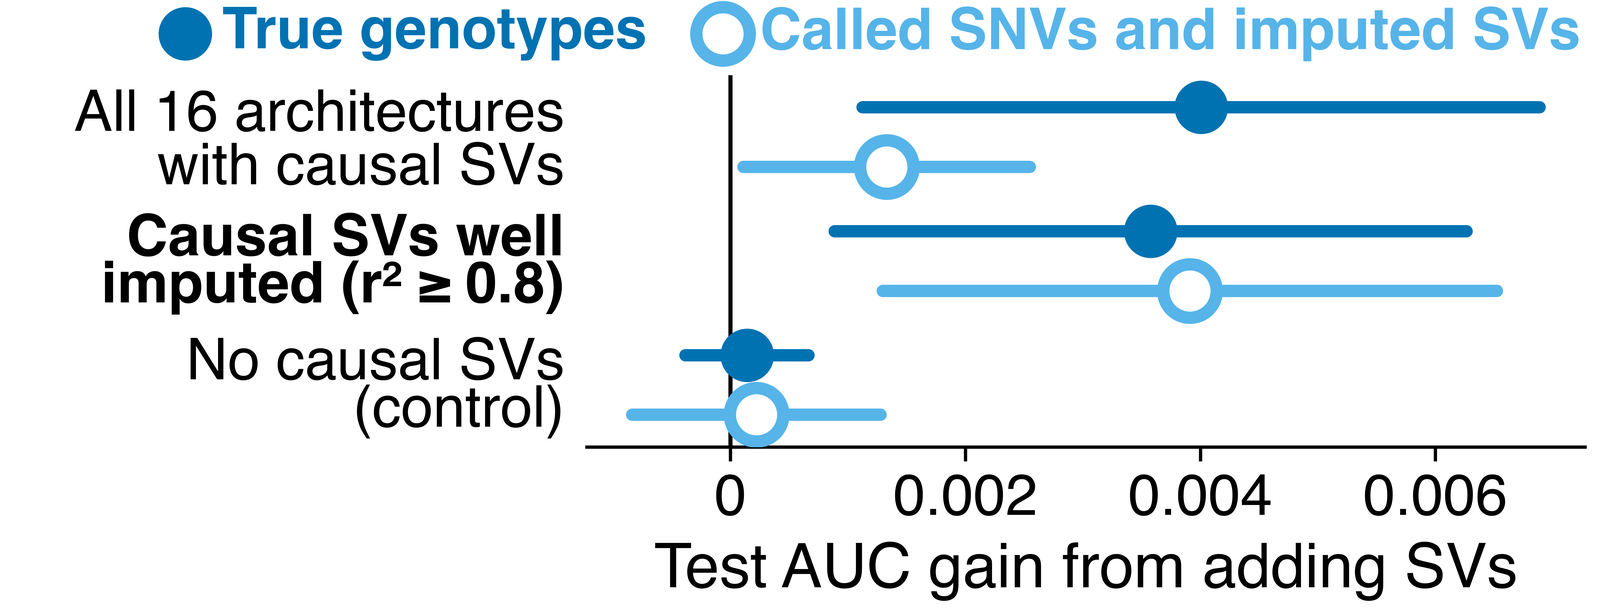
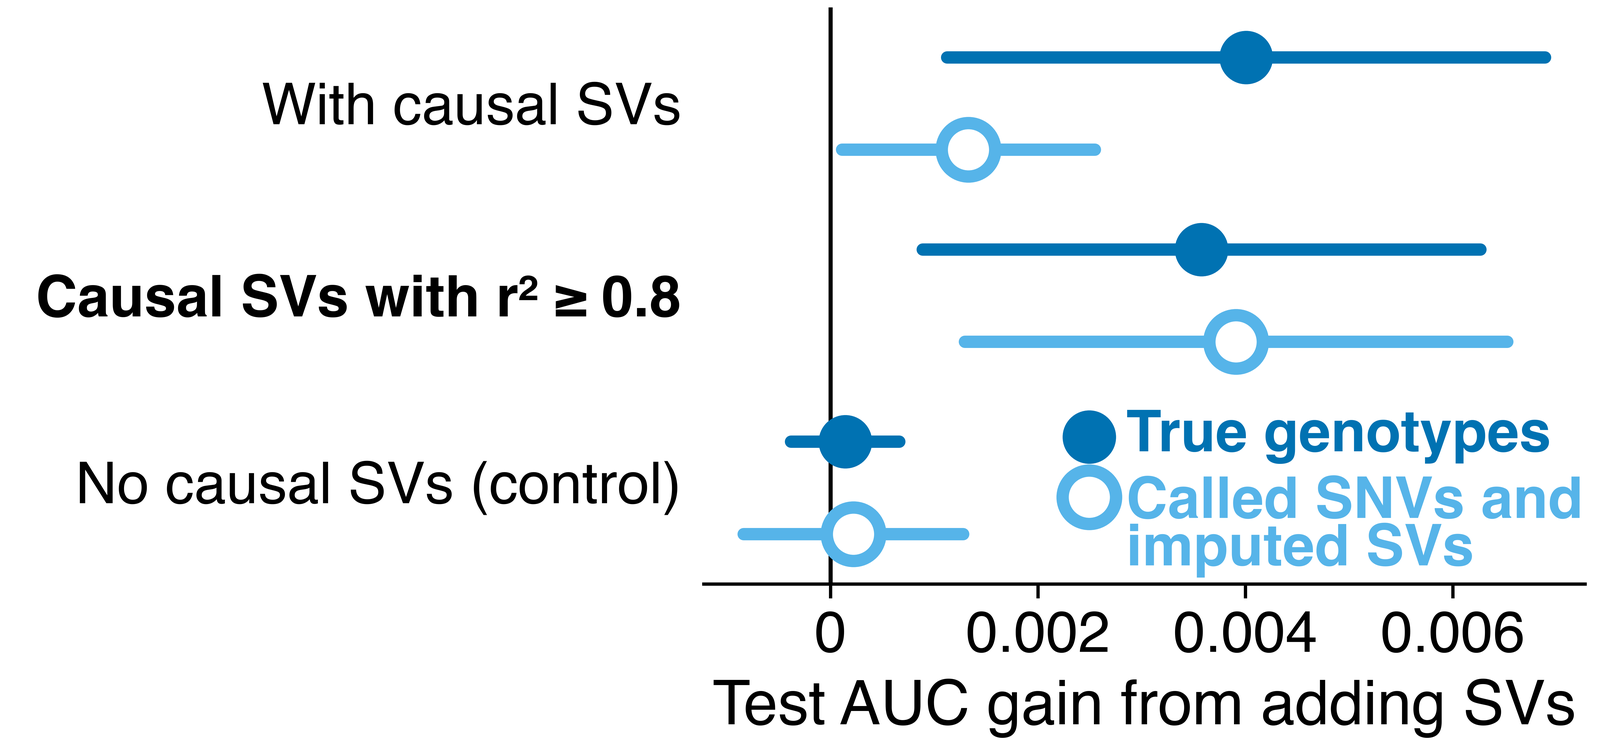
The poster has about a third fewer words, ends each column flush, and names the program *All of Us* in italics (docs/poster/ashg2026). The right section is "All of Us cohort results" and the middle "Simulation results". The simulation design merges into Methods as three bullets: the 50,000 genomes, 
Claude-Session: https://claude.ai/code/session_01XTX1JUgLVteQ3pwSnr9aa6

diff --git a/docs/poster/ashg2026/build_pptx.py b/docs/poster/ashg2026/build_pptx.py
@@ -60,7 +60,7 @@ COLUMNS = ((MARGIN, LEFT), (MARGIN + LEFT + GUTTER, MIDDLE), (48 - MARGIN - RIGH
 """Each column's left edge and width."""
 INSET = 0.3
 """Text sits this far inside its column, under the section bars' labels."""
-BAR, BAR_SIZE = 1.25, 72
+BAR, BAR_SIZE = 1.25, 68
 BODY, HEADLINE, GLOSS, REFERENCE, PENDING = 56, 60, 56, 28, 50
 LINE_PITCH = 1.066
 """Line pitch per point of type at 90% line spacing, measured on the LibreOffice render."""
@@ -92,10 +92,11 @@ REFERENCES = [
 """First author, year and journal, one to a line, numbered in superscript in the order the text first cites them
 (``cite``): the SVs per genome, LDpred2, All of Us and GLIMPSE2."""
 SUPERSCRIPT = dict(zip(range(1, 10), "¹²³⁴⁵⁶⁷⁸⁹"))
-DESIGN_SETTINGS = {"h2": (0.01, 0.1), "prevalence": (0.01, 0.1), "causal_variants": (50, 200, 2000),
-                   "sv_causal_fraction": (0.0, 0.05, 0.2)}
-"""The values each setting takes over benchmarks/power/grid.py's POINTS (a point's own value, else HERITABILITY,
-PREVALENCE or CAUSAL_VARIANTS), which tests/test_poster_simulation.py checks against the grid."""
+DESIGN_BASE = {"h2": 0.1, "prevalence": 0.1, "causal_variants": 200, "sv_causal_fraction": 0.2}
+"""The base disease of benchmarks/power/grid.py, from which each of its POINTS changes one or two settings: its
+HERITABILITY, PREVALENCE and CAUSAL_VARIANTS, and the SV share most points have."""
+DESIGN_SHARES = (0.0, 0.05)
+"""The other SV shares the grid's points take. tests/test_poster_simulation.py checks both against the grid."""
 
 
 WHOLE_PREVALENCE = 0.1
@@ -118,9 +119,9 @@ PLACEHOLDERS = [
 
 def marked(text: str) -> list[tuple[str, str]]:
     """Runs of ``text``: **bold**, {{words|colour}} bold in a figure colour (a genotype source named as its bars are
-    drawn), and each method's name bold in its figure colour."""
+    drawn), each method's name, and the program's name *All of Us* in italics, as its style asks."""
     runs = []
-    for piece in re.split(r"(\*\*.+?\*\*|\{\{.+?\}\}|SV-PGS|LDpred2-auto)", text):
+    for piece in re.split(r"(\*\*.+?\*\*|\{\{.+?\}\}|SV-PGS|LDpred2-auto|All of Us)", text):
         if piece.startswith("**"):
             runs.append((piece[2:-2], "b"))
         elif piece.startswith("{{"):
@@ -128,6 +129,8 @@ def marked(text: str) -> list[tuple[str, str]]:
             runs.append((words, f"b {colour}"))
         elif piece in ("SV-PGS", "LDpred2-auto"):
             runs.append((piece, ""))
+        elif piece == "All of Us":
+            runs.append((piece, "i"))
         elif piece:
             runs.append((piece, ""))
     return runs
@@ -144,18 +147,18 @@ def copy(numbers: dict) -> dict:
     simulations = rows["all"]["true"][3] + rows["null"]["true"][3]
     return {
         # Byrska-Bishop 2022: "On average, ~9,679 SVs were discovered in each genome"
-        "introduction": [f"Each genome has ~9,700 structural variants (SVs){cite('Byrska-Bishop 2022 Cell')}",
-                         "Polygenic scores rarely use SVs",
-                         "We test if imputed SVs improve accuracy"],
-        "methods": ["Priors depend on imputation r², frequency, SV length"],
+        "introduction": [f"Each genome has ~9,700 structural variants (SVs).{cite('Byrska-Bishop 2022 Cell')}",
+                         "Polygenic scores rarely use SVs, so we test if imputed SVs improve accuracy."],
+        "methods": ["Priors use SV type, length, frequency and imputation r²."],
         "code": ["Code:", "github.com/SauersML/SV-PGS"],
         "design": [
-            f"{people(svs['people'])} genomes simulated from 1000 Genomes chr22",
-            # each setting's values over the grid's points (DESIGN_SETTINGS), listed rather than as a range
-            f"{gain['shown']} architectures: h² {listed([f'{h2:g}' for h2 in DESIGN_SETTINGS['h2']])}, prevalence "
-            f"{listed([f'{share:.0%}' for share in DESIGN_SETTINGS['prevalence']])}",
-            f"{listed([f'{count:,}' for count in DESIGN_SETTINGS['causal_variants']])} causal variants, of which "
-            f"{listed([f'{share:.0%}' for share in DESIGN_SETTINGS['sv_causal_fraction']])} are SVs",
+            f"{people(svs['people'])} genomes simulated from 1000 Genomes chr22.",
+            f"Base disease: h² {DESIGN_BASE['h2']:g}, prevalence {DESIGN_BASE['prevalence']:.0%}, "
+            f"{DESIGN_BASE['causal_variants']:,} causal variants, {DESIGN_BASE['sv_causal_fraction']:.0%} of them SVs.",
+            # the other points: SV effect size or shape (fold 3, length, deletion, heavy tail, two point), 50 or
+            # 2,000 causal variants, h² 0.01, prevalence 1%, and causal SVs only well imputed or common
+            f"Others change the SV share ({listed([f'{share:.0%}' for share in DESIGN_SHARES])}), SV effects, causal "
+            "count, h², prevalence or which SVs are causal.",
         ],
         # what each plotted method fits, over the simulation's figures: SV-PGS every measured record with no
         # frequency or r² floor (stage2_wiring.fit_models), LDpred2-auto SNVs of training MAF >= 1% thinned evenly in
@@ -163,34 +166,22 @@ def copy(numbers: dict) -> dict:
         "compared": ["SV-PGS: all SNVs, indels and SVs",
                      f"LDpred2-auto{cite('Privé 2020 Bioinformatics')}: up to 16,000 SNVs with MAF ≥ 1%"],
         # every whole-chr22 architecture has the grid's PREVALENCE: rare_disease, at 1%, ran in the 3 Mb window alone
-        "whole_note": f"Whole chr22 at {WHOLE_PREVALENCE:.0%} prevalence with test N = {people(accuracy['test_people'])}",
-        "gain_note": f"Mean and 95% CI over {simulations} simulations in 3 Mb of chr22",
+        "whole_note": f"Whole chr22 at {WHOLE_PREVALENCE:.0%} prevalence, test N = {people(accuracy['test_people'])}",
+        "gain_note": f"{simulations} simulations in 3 Mb of chr22 (mean, 95% CI)",
         # GLIMPSE2 is Rubinacci 2023; the assemblies are the accepted abstract's 12,212 phased genome assemblies
+        # the forest's matched fits: SV-PGS with and without SVs on every trait, tested in its held-out people
         "aou": ["We imputed SVs from 12,212 long-read assemblies into 100,000 All of Us"
-                f"{cite('All of Us 2019 N Engl J Med')} genomes with GLIMPSE2{cite('Rubinacci 2023 Nat Genet')}",
-                *aou_matched()],
+                f"{cite('All of Us 2019 N Engl J Med')} genomes with GLIMPSE2.{cite('Rubinacci 2023 Nat Genet')}",
+                "We compare held-out r² with and without SVs."],
         # what the simulations mean. SV-PGS's AUC gain over LDpred2-auto at training N 40,000 holds without causal
         # SVs (wins' null_gain, its 95% interval above 0), so causal SVs are not its source. Imputed SVs' gain is
         # largest where the causal SVs are well imputed, where it matches the gain with true SV genotypes (the SV-gain
         # forest's well_imputed and all rows: imputed share of the true gain about 1 against about a third)
         "discussion": [
-            "SV-PGS beat LDpred2-auto with and without causal SVs, so its advantage comes from the model and its "
-            "larger variant set",
-            "Imputed SVs helped most when the causal SVs were well imputed, so the gain depends on SV imputation "
-            "accuracy",
+            "SV-PGS beat LDpred2-auto with and without causal SVs, so its advantage comes from the model and variant set.",
+            "Imputed SVs helped most when causal SVs were well imputed, so the gain depends on imputation accuracy.",
         ],
     }
-
-
-def aou_matched() -> list[str]:
-    """What the All of Us figure compares, when aou_numbers.json holds its "matched" rows (aggregates, every count
-    below 40 masked): for each trait, SV-PGS fitted with SVs and without them, tested in the same held-out people."""
-    path = HERE / "aou_numbers.json"
-    rows = json.loads(path.read_text()).get("matched", {}).get("rows", []) if path.is_file() else []
-    # every matched run's run_config.json: fit_minimum_minor_allele_frequency 0.01, fit_minimum_r2 0.3 and
-    # fit_variant_sites HapMap3, which keeps the SNVs at HapMap3 sites and every SV (workspace_pipeline.fit_filtered)
-    return ["We fit SV-PGS with and without SVs and tested both in held-out people",
-            "HapMap3 SNVs and SVs, MAF ≥ 1%, imputation r² ≥ 0.3"] if rows else []
 
 
 def signed(share: float) -> str:
@@ -206,8 +197,8 @@ def aou_result() -> list[str]:
     common = json.loads(path.read_text()).get("matched", {}).get("common") if path.is_file() else None
     if not common:
         return []
-    return [f"In All of Us, imputed SVs raised r² by at most {signed(common['relative_bound'] / 100)} across "
-            f"{common['traits']} traits, so these traits have few SVs with large effects or poorly imputed causal SVs"]
+    return [f"In All of Us, imputed SVs raised r² by at most {signed(common['relative_bound'] / 100)} over "
+            f"{common['traits']} traits, so these traits have few SVs with large effects or poorly imputed causal SVs."]
 
 
 # ------------------------------------------------------------------ DrawingML
@@ -328,7 +319,8 @@ def image(shape_id: int, name: str, rel: str, x: float, y: float, width: float, 
 def placeholder(shape_id: int, x: float, y: float, width: float, height: float, title: str, detail: str) -> str:
     """A dashed panel where an All of Us figure will go."""
     text = "".join(
-        Para([(words, flags)], size, bullet=False, colour=colour, after=after, align="ctr").xml()
+        Para([(piece, f"{flags} {style}") for piece, style in marked(words)], size, bullet=False, colour=colour,
+             after=after, align="ctr").xml()
         for words, flags, size, colour, after in (("All of Us · result pending", "b", PENDING, TEAL, 18),
                                                   (title, "b", HEADLINE, INK, 12), (detail, "", GLOSS, GREY, 0))
     )
@@ -405,12 +397,13 @@ def authors_and_affiliations() -> tuple[list[tuple[str, str]], list[str]]:
 
 def header(xml: str) -> str:
     """The abstract's title (two lines, as the template sets it), then its authors and affiliations."""
-    title = "".join(Para([(text, "b")], 92, bullet=False, colour="FFFFFF", after=0).xml() for text in TITLE)
+    title = "".join(Para([(piece, f"b {flags}") for piece, flags in marked(text)], 92, bullet=False, colour="FFFFFF",
+                         after=0).xml() for text in TITLE)
     xml = replace_text(xml, 89, title.replace('<a:spcPct val="90000"/>', '<a:spcPct val="100000"/>'))
     authors, affiliations = authors_and_affiliations()
     author_runs: list[tuple[str, str]] = []
     for position, (name, marks) in enumerate(authors):
-        author_runs.append((name, ""))
+        author_runs.extend(marked(name))
         if marks:
             author_runs.append((marks.replace(" ", ""), "sup"))
         if position < len(authors) - 1:
@@ -456,16 +449,21 @@ def text(paragraphs: list[Para]) -> Block:
 
 QR = 2.6
 """Inches: the side of the QR code to the repository."""
-ENDING = 6.3
-"""Inches: the width of the QR code and the small type under it at the right end of the Discussion band, the least that
-sets the repository's address on one line."""
+ENDINGS = (6.3, 10.0)
+"""Inches: the widths of the QR code and its small type at the right end of the Discussion band, the type under the
+code or beside it, each the least that sets the repository's address on one line."""
 
 
-def code(lines: list[str]) -> list[Block]:
-    """A QR code to the repository over ``lines`` in small type: "Code:", the address in bold, then the references."""
-    return [Block("qr", None),
-            Block("text", [Para([(line, "b" if index == 1 else "")], REFERENCE, bullet=False, after=0)
-                           for index, line in enumerate(lines)])]
+def code(lines: list[str], beside: bool) -> list[Block]:
+    """A QR code to the repository with ``lines`` in small type under it, or ``beside`` it: "Code:", the address in
+    bold, then "References:" and the references."""
+    blocks = [Block("qr", None),
+              Block("text", [Para([(piece, f"b {flags}" if index == 1 else flags) for piece, flags in marked(line)],
+                                  REFERENCE, bullet=False, after=0) for index, line in enumerate(lines)])]
+    if not beside:
+        return blocks
+    share = QR / (ENDINGS[1] - GUTTER)
+    return [row([blocks[0]], [blocks[1]], shares=(share, 1 - share))]
 
 
 def row(*children: list, shares: tuple = ()) -> Block:
@@ -555,9 +553,14 @@ class Poster:
             shape_id, label = block.content
             self.xml = move(self.xml, shape_id, x, y, width, BAR)
             start, end = shape_span(self.xml, shape_id)
-            shape = re.sub(r"<a:t>[^<]*</a:t>", f"<a:t>{escape(label, quote=False)}</a:t>", self.xml[start:end], count=1)
-            shape = re.sub(r'sz="\d+"', f'sz="{BAR_SIZE * 100}"', shape)
-            shape = re.sub(r'(<a:rPr lang="en-US" sz="\d+") b="0"', r'\1 b="1"', shape)
+            shape = self.xml[start:end]
+            first = re.search(r"<a:r>.*?</a:r>", shape).group(0)
+            # the template's run, bold at the bars' size, once for each piece of the label (*All of Us* in italics)
+            styled = re.sub(r'sz="\d+" b="0" i="0"', f'sz="{BAR_SIZE * 100}" b="1" i="{{italic}}"', first)
+            styled = re.sub(r"<a:t>[^<]*</a:t>", '<a:t xml:space="preserve">{text}</a:t>', styled)
+            runs = "".join(styled.format(italic=int("i" in flags.split()), text=escape(piece, quote=False))
+                           for piece, flags in marked(label))
+            shape = shape.replace(first, runs, 1)
             self.xml = self.xml[:start] + shape + self.xml[end:]
         elif block.kind == "text":
             paragraphs = "".join(para.xml() for para in block.content)
@@ -647,7 +650,7 @@ def build() -> None:
     # every text box, figure and caption of the template's own study; its header, wordmark and bars stay
     for shape_id in (92, 94, 98, 99, 101, 102, 103, 104, 105, 106, 107, 108, 109, 110, 111, 112, 113, 114):
         xml = delete(xml, shape_id)
-    xml = duplicate(duplicate(xml, 93, 118, "Simulation results bar"), 93, 119, "All of Us bar")
+    xml = delete(duplicate(duplicate(xml, 93, 118, "Simulation results bar"), 93, 119, "All of Us bar"), 93)
 
     # the template's References bar goes: the references are a small block at the end of the reading order
     xml = delete(xml, 96)
@@ -662,8 +665,7 @@ def build() -> None:
     columns = [
         [
             bar(97, "Introduction"), text(bullets(words["introduction"])),
-            bar(91, "Methods"), figure(gallery["poster_model"]), text(bullets(words["methods"])),
-            bar(93, "Simulation design"), text(bullets(words["design"])),
+            bar(91, "Methods"), figure(gallery["poster_model"]), text(bullets([*words["methods"], *words["design"]])),
             figure(gallery["poster_imputation_accuracy"], flex=True, legend=GALLERY / "fig5_simulated_svs.txt"),
         ],
         [
@@ -674,13 +676,16 @@ def build() -> None:
             Block("text", [Para([(words["gain_note"], "")], bullet=False, after=0)]),
             figure(gallery["poster_sv_gain"]),
         ],
-        [bar(119, "All of Us"), text(bullets(words["aou"])), *aou_blocks()],
+        [bar(119, "All of Us cohort results"), text(bullets(words["aou"])), *aou_blocks()],
     ]
     poster = Poster(xml, rels, work / "ppt/media")
     across = COLUMNS[2][0] + RIGHT - COLUMNS[1][0]
     references = [f"{SUPERSCRIPT[index]}{reference}" for index, reference in enumerate(REFERENCES, start=1)]
-    band = [discussion[0], row(discussion[1:], code([*words["code"], *references]),
-                               shares=(1 - ENDING / (across - GUTTER), ENDING / (across - GUTTER)))]
+    # the code's type under it or beside it, whichever makes the shorter band: under it while the Discussion is long
+    bands = [[discussion[0], row(discussion[1:], code([*words["code"], "References:", *references], beside),
+                                 shares=(1 - ending / (across - GUTTER), ending / (across - GUTTER)))]
+             for ending, beside in zip(ENDINGS, (False, True))]
+    band = min(bands, key=lambda band: poster.stack_height(band, across))
     top = BOTTOM - poster.stack_height(band, across)
     poster.stack(band, COLUMNS[1][0], top, across, None)
     for index, ((x, width), blocks) in enumerate(zip(COLUMNS, columns)):

diff --git a/docs/poster/ashg2026/aou_gallery.py b/docs/poster/ashg2026/aou_gallery.py
@@ -46,8 +46,12 @@ ROW_GAP = 0.05
 LABEL_GAP = 0.3
 """Inches between the widest row name and the plot."""
 MARK = 1.5
-"""The forest's marks and intervals relative to the poster's (POSTER_MARK, POSTER_BAR): its rows are a line of type
-apart, and the room the right column has over them goes to the marks."""
+"""The forest's marks and intervals relative to the poster's (POSTER_MARK, POSTER_BAR) when its rows are a line of type
+apart."""
+HEIGHT = 17.22
+"""Inches: the gain forest's least height, which fills the right column from its text to the Discussion band at the
+poster's foot (build_pptx.py's layout). Rows further apart than a line of type have marks up to GROWTH times MARK."""
+GROWTH = 4 / 3
 TRAITS = {
     "ldl_cholesterol": "LDL cholesterol", "egfr": "eGFR", "hypertension": "Hypertension",
     "type_2_diabetes": "Type 2 diabetes", "coronary_artery_disease": "Coronary disease",
@@ -65,14 +69,15 @@ def trait_name(trait: str) -> str:
 
 def forest(rows: list[tuple[str, float, float, float]], xlabel: str, ticks: list[float], tick_text, log: bool,
            reference: float | None = None, estimates: bool = False, bold: frozenset = frozenset(),
-           note: str | None = None):
+           note: str | None = None, least: float = 0.0):
     """A forest at the column's width in the imputed SVs' sky blue: a row per (label, estimate, low, high), its label
     at the left of the canvas and its interval level with it, each estimate an open mark as imputed SVs' are in the
     simulation figures (every All of Us SV is imputed), with the reference drawn (0, or 1 on a log axis, unless given).
     The axis runs from the first tick to the last, or with ``estimates`` symmetric about the reference over the
     estimates alone, so that each estimate's mark clears an arrowhead at the axis's end. Every margin and the rows'
-    pitch are measured from the type, so the forest is as short as its type allows. The labels in ``bold`` are set in
-    bold, and ``note`` is one line under the axis title."""
+    pitch are measured from the type, so the forest is as short as its type allows, unless ``least`` inches is taller:
+    then its rows share that height and its marks grow with them. The labels in ``bold`` are set in bold, and ``note``
+    is one line under the axis title."""
     reference = (1.0 if log else 0.0) if reference is None else reference
     fig = plt.figure(figsize=(COLUMN, 1.0))
     labels = [label for label, *_ in rows]
@@ -83,8 +88,9 @@ def forest(rows: list[tuple[str, float, float, float]], xlabel: str, ticks: list
     right = widest(fig, [tick_text(ticks[-1])], fontsize=POSTER_STYLE["font.size"]) / 2 + POSTER_PAD
     line = tallest(fig, [note], fontsize=POSTER_STYLE["font.size"]) + POSTER_PAD if note else 0.0
     top, bottom = POSTER_PAD, under_axes(fig, [xlabel]) + line
-    height = top + bottom + pitch * len(rows)
-    mark, bar, ring = POSTER_MARK * MARK, POSTER_BAR * MARK, 6.0 * MARK
+    height = max(top + bottom + pitch * len(rows), least)
+    growth = MARK * min((height - top - bottom) / len(rows) / pitch, GROWTH)
+    mark, bar, ring = POSTER_MARK * growth, POSTER_BAR * growth, 6.0 * growth
     # an arrowhead at the axis's start reaches half its width to the left, toward the names
     arrow = mark * 0.7 / 2 / 72
     left = max(widest(fig, [label], fontsize=POSTER_STYLE["font.size"], fontweight=weight[label])
@@ -167,7 +173,7 @@ def gain_figure(matched: list[dict], common: dict | None = None) -> tuple:
     note = UNCONVERGED if any(row.get("unconverged") for row in matched) else None
     # the axis spans the estimates, not their intervals; an interval that runs past it ends in an arrowhead
     fig = forest(rows, "Change in r² with SVs (%)", span([value for _, value, _, _ in rows]), percent, log=False,
-                 estimates=True, bold=frozenset({COMBINED}), note=note)
+                 estimates=True, bold=frozenset({COMBINED}), note=note, least=HEIGHT)
     return fig, ["Change in held-out partial r² from adding SVs to SV-PGS for each trait, relative to the r² without "
                  "SVs, with 95% intervals, an arrowhead marking an interval that runs past the axis"
                  + (", and in bold the traits' common change relative to the two models' mean r²" if common else "")]

diff --git a/tests/test_poster_simulation.py b/tests/test_poster_simulation.py
@@ -6,6 +6,7 @@ import json
 import math
 import re
 import sys
+from collections import Counter
 
 import numpy as np
 import pytest
@@ -129,22 +130,18 @@ def poster_copy(poster) -> dict:
     return poster.copy(json.loads((poster.HERE / "figures/gallery/numbers.json").read_text()))
 
 
-def test_poster_design_lists_each_setting_value_the_grid_simulates(monkeypatch, tmp_path):
+def test_poster_design_gives_the_grids_base_disease_and_its_other_sv_shares(monkeypatch, tmp_path):
     from benchmarks.power import grid
 
     poster = poster_module(monkeypatch, tmp_path)
-    simulated = {
-        "h2": {point.get("truth", {}).get("h2", grid.HERITABILITY) for point in grid.POINTS.values()},
-        "prevalence": {point.get("truth", {}).get("prevalence", grid.PREVALENCE) for point in grid.POINTS.values()},
-        "causal_variants": {point.get("causal_variants", grid.CAUSAL_VARIANTS) for point in grid.POINTS.values()},
-        "sv_causal_fraction": {point["sv_causal_fraction"] for point in grid.POINTS.values()},
-    }
-    assert {name: set(values) for name, values in poster.DESIGN_SETTINGS.items()} == simulated
-    line = " ".join(poster_copy(poster)["design"][1:3])
-    # each value is named and none is given as a range
-    assert "–" not in line
-    assert "h² 0.01 or 0.1" in line and "prevalence 1% or 10%" in line
-    assert "50, 200 or 2,000 causal variants" in line and "0%, 5% or 20% are SVs" in line
+    shares = Counter(point["sv_causal_fraction"] for point in grid.POINTS.values())
+    base = shares.most_common(1)[0][0]
+    assert poster.DESIGN_BASE == {"h2": grid.HERITABILITY, "prevalence": grid.PREVALENCE,
+                                  "causal_variants": grid.CAUSAL_VARIANTS, "sv_causal_fraction": base}
+    assert set(poster.DESIGN_SHARES) == set(shares) - {base}
+    base_line, others = poster_copy(poster)["design"][1:3]
+    assert "h² 0.1, prevalence 10%, 200 causal variants, 20% of them SVs" in base_line
+    assert "SV share (0% or 5%)" in others
 
 
 def test_poster_cites_every_reference_in_order(monkeypatch, tmp_path):
@@ -163,7 +160,15 @@ def test_poster_gain_note_counts_the_simulations_the_forest_draws(monkeypatch, t
     poster = poster_module(monkeypatch, tmp_path)
     rows = json.loads((poster.HERE / "figures/gallery/numbers.json").read_text())["poster_sv_gain"]["rows"]
     drawn = sum(row["true"][3] for row in rows.values() if row is not rows.get("well_imputed"))
-    assert f"over {drawn} simulations" in poster_copy(poster)["gain_note"]
+    assert poster_copy(poster)["gain_note"].startswith(f"{drawn} simulations ")
+
+
+def test_every_poster_bullet_ends_with_a_full_stop(monkeypatch, tmp_path):
+    words = poster_copy(poster_module(monkeypatch, tmp_path))
+    for key in ("introduction", "methods", "design", "aou", "discussion"):
+        for line in words[key]:
+            # a citation's number follows the full stop
+            assert line.rstrip("¹²³⁴⁵⁶⁷⁸⁹").endswith("."), line
 
 
 def test_the_whole_chr22_note_gives_the_prevalence_every_whole_chr22_architecture_has(monkeypatch, tmp_path):

diff --git a/docs/poster/ashg2026/sim_gallery.py b/docs/poster/ashg2026/sim_gallery.py
@@ -1006,9 +1006,11 @@ WELL_IMPUTED = ("tagged_sv", "tagged_sv_fold3")
 """The architectures whose causal SVs are drawn only from SVs that Beagle imputed with realized r² ≥ 0.8 (grid.py's
 sv_min_realized_r2)."""
 POSTER_GAIN, POSTER_GENOTYPES = 21.92, 11.4
+POSTER_GENOTYPES_HEIGHT = 7.5
+"""Inches: the imputation figure's height, which fills the left column under the Methods bullets."""
 """Inches: the widths of the SV gain forest (the poster's middle column, build_pptx.py's MIDDLE) and the imputation
 figure (the left column, LEFT), each placed at its column's full width."""
-POSTER_GAIN_HEIGHT = 8.22
+POSTER_GAIN_HEIGHT = 10.07
 """Inches: the SV gain forest's height, which fills the middle column from the training-size figures to the band of
 Discussion, code and references at its foot (build_pptx.py's layout)."""
 GAIN_WEIGHT, GAIN_OFFSET = 2.0, 0.24
@@ -1030,9 +1032,9 @@ def gain_sets(grids) -> dict[str, dict]:
     causal = [point for point in LABELS if point != "null" and point in gains]
     sets = {}
     for key, label, points in (
-        ("all", f"All {len(causal)} architectures\nwith causal SVs", causal),
-        ("well_imputed", "Causal SVs well\nimputed (r² ≥ 0.8)", [point for point in causal if point in WELL_IMPUTED]),
-        ("null", "No causal SVs\n(control)", ["null"]),
+        ("all", "With causal SVs", causal),
+        ("well_imputed", "Causal SVs with r² ≥ 0.8", [point for point in causal if point in WELL_IMPUTED]),
+        ("null", "No causal SVs (control)", ["null"]),
     ):
         true = [gain for point in points for _, gain, _ in gains.get(point, [])]
         imputed = [gain for point in points for _, _, gain in gains.get(point, [])]
@@ -1157,7 +1159,7 @@ def poster_imputation_figure(summary):
     after the lines' last marks. The margins are measured from the drawn type, so larger type widens them. The y axis's
     title is centred on the figure's height, and the x axis's, wider than the axes, ends at the figure's right edge."""
     accuracy = summary["genotype_accuracy"]["r2_by_frequency"]
-    width, height, pad = POSTER_GENOTYPES, 5.2, 0.08
+    width, height, pad = POSTER_GENOTYPES, POSTER_GENOTYPES_HEIGHT, 0.08
     fig = plt.figure(figsize=(width, height))
     ax = frame(fig, 0, 0, width, height)
     mark = POSTER_MARK * 0.7

diff --git a/tests/test_poster_figures.py b/tests/test_poster_figures.py
@@ -150,5 +150,5 @@ def test_the_discussion_bounds_the_common_all_of_us_gain_only_when_it_is_given(m
     (tmp_path / "aou_numbers.json").write_text(json.dumps({"matched": {"rows": [], "common": {
         "relative": -2.0, "relative_lower": -4.0, "relative_upper": 0.5, "relative_bound": 0.1, "traits": 10}}}))
     # the primary's one-sided 95% upper bound on the common g
-    assert build_pptx.aou_result() == ["In All of Us, imputed SVs raised r² by at most 0.1% across 10 traits, so these "
-                                       "traits have few SVs with large effects or poorly imputed causal SVs"]
+    assert build_pptx.aou_result() == ["In All of Us, imputed SVs raised r² by at most 0.1% over 10 traits, so these "
+                                       "traits have few SVs with large effects or poorly imputed causal SVs."]
